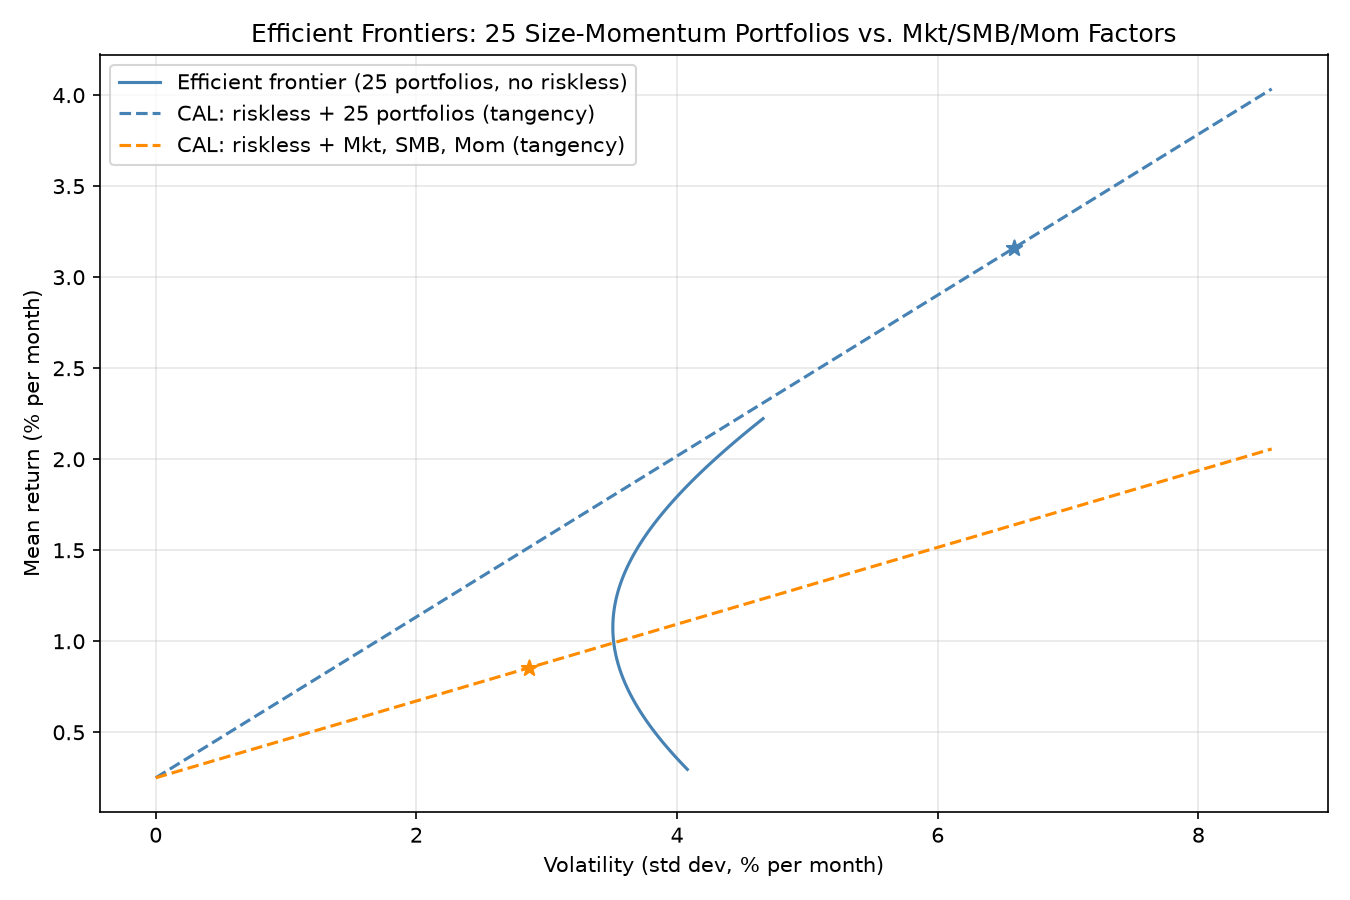
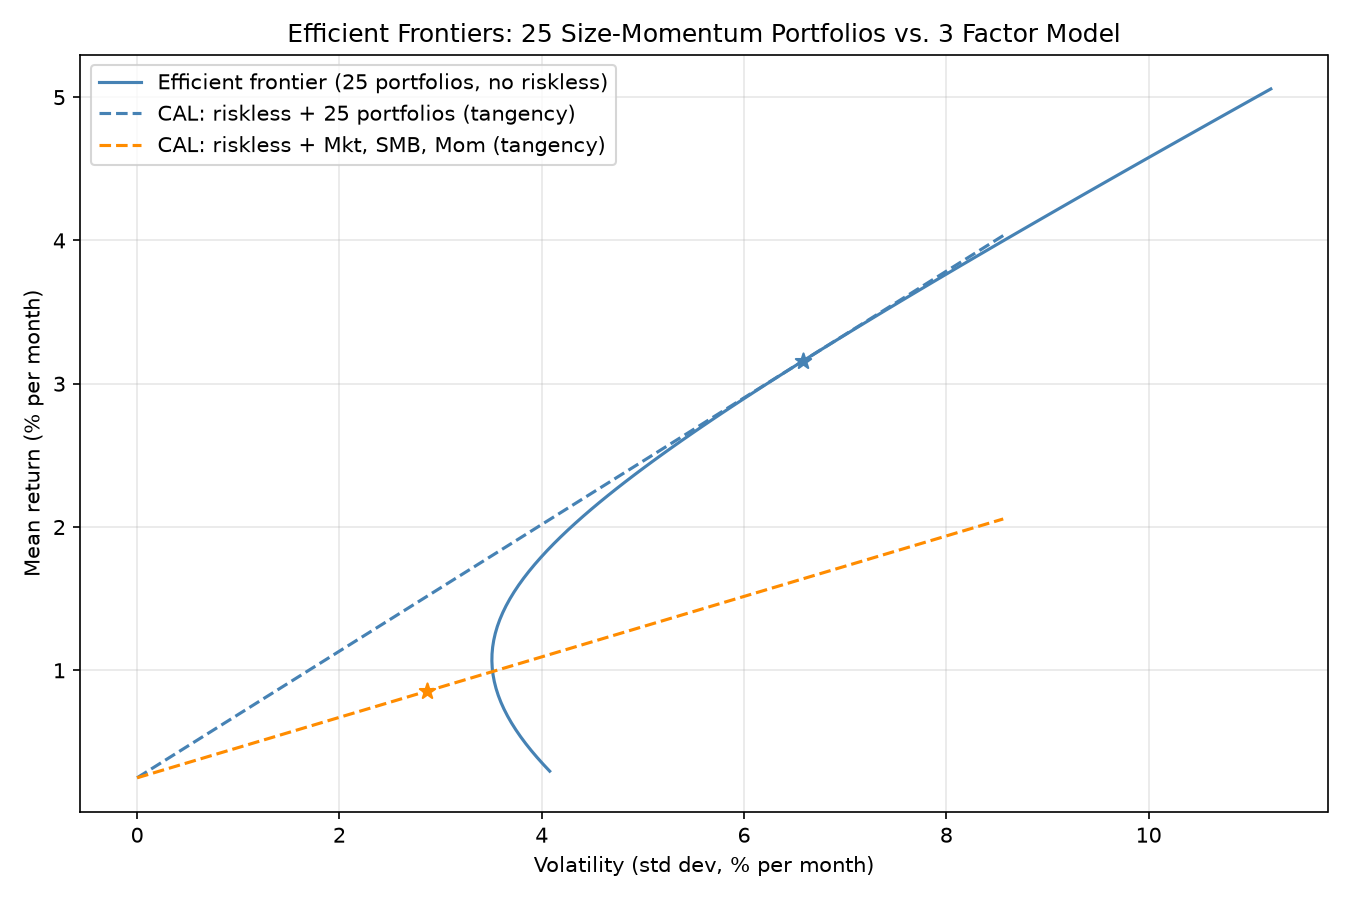
fix frontier plotting range, tangency point now correctly on curve

diff --git a/Code/Q1_Code.py b/Code/Q1_Code.py
@@ -26,7 +26,7 @@ ones_port = np.ones(n_port)
 ones_fac = np.ones(n_fac)
 
 
-def efficient_frontier(mu, Sigma, ones, n_points=100):
+def efficient_frontier(mu, Sigma, ones, target_max, n_points=100):
     """No-riskless-asset frontier: returns (target_returns, min_std_devs)."""
     Sigma_inv = np.linalg.inv(Sigma)
     A = ones @ Sigma_inv @ ones
@@ -34,7 +34,7 @@ def efficient_frontier(mu, Sigma, ones, n_points=100):
     C = mu @ Sigma_inv @ mu
     D = A * C - B ** 2
 
-    targets = np.linspace(mu.min(), mu.max() * 1.5, n_points)
+    targets = np.linspace(mu.min(), target_max, n_points)
     variances = (A * targets ** 2 - 2 * B * targets + C) / D
     stds = np.sqrt(np.maximum(variances, 0))
     return targets, stds
@@ -52,15 +52,15 @@ def tangency_portfolio(mu_excess, Sigma):
     return w, exp_excess_return, std, sharpe
 
 
-# No-riskless frontier, 25 portfolios
-targets_port, stds_port = efficient_frontier(mu_port, Sigma_port, ones_port)
-
-# Tangency portfolios (built from excess returns)
+# Tangency portfolios (built from excess returns) 
 w_tan_port, exret_tan_port, std_tan_port, sharpe_tan_port = tangency_portfolio(mu_e_port, Sigma_port)
 w_tan_fac, exret_tan_fac, std_tan_fac, sharpe_tan_fac = tangency_portfolio(mu_e_fac, Sigma_fac)
 
 mean_tan_port = rf_fixed + exret_tan_port
 mean_tan_fac = rf_fixed + exret_tan_fac
+
+# No-riskless frontier, 25 portfolios — now mean_tan_port exists
+targets_port, stds_port = efficient_frontier(mu_port, Sigma_port, ones_port, target_max=mean_tan_port * 1.6)
 
 # Capital allocation lines (with riskless asset)
 cal_std_range = np.linspace(0, max(std_tan_port, std_tan_fac) * 1.3, 50)
@@ -78,7 +78,7 @@ plt.scatter([std_tan_fac], [mean_tan_fac], color='darkorange', zorder=5, s=60, m
 
 plt.xlabel('Volatility (std dev, % per month)')
 plt.ylabel('Mean return (% per month)')
-plt.title('Efficient Frontiers: 25 Size-Momentum Portfolios vs. Mkt/SMB/Mom Factors')
+plt.title('Efficient Frontiers: 25 Size-Momentum Portfolios vs. 3 Factor Model')
 plt.legend()
 plt.grid(alpha=0.3)
 plt.tight_layout()
